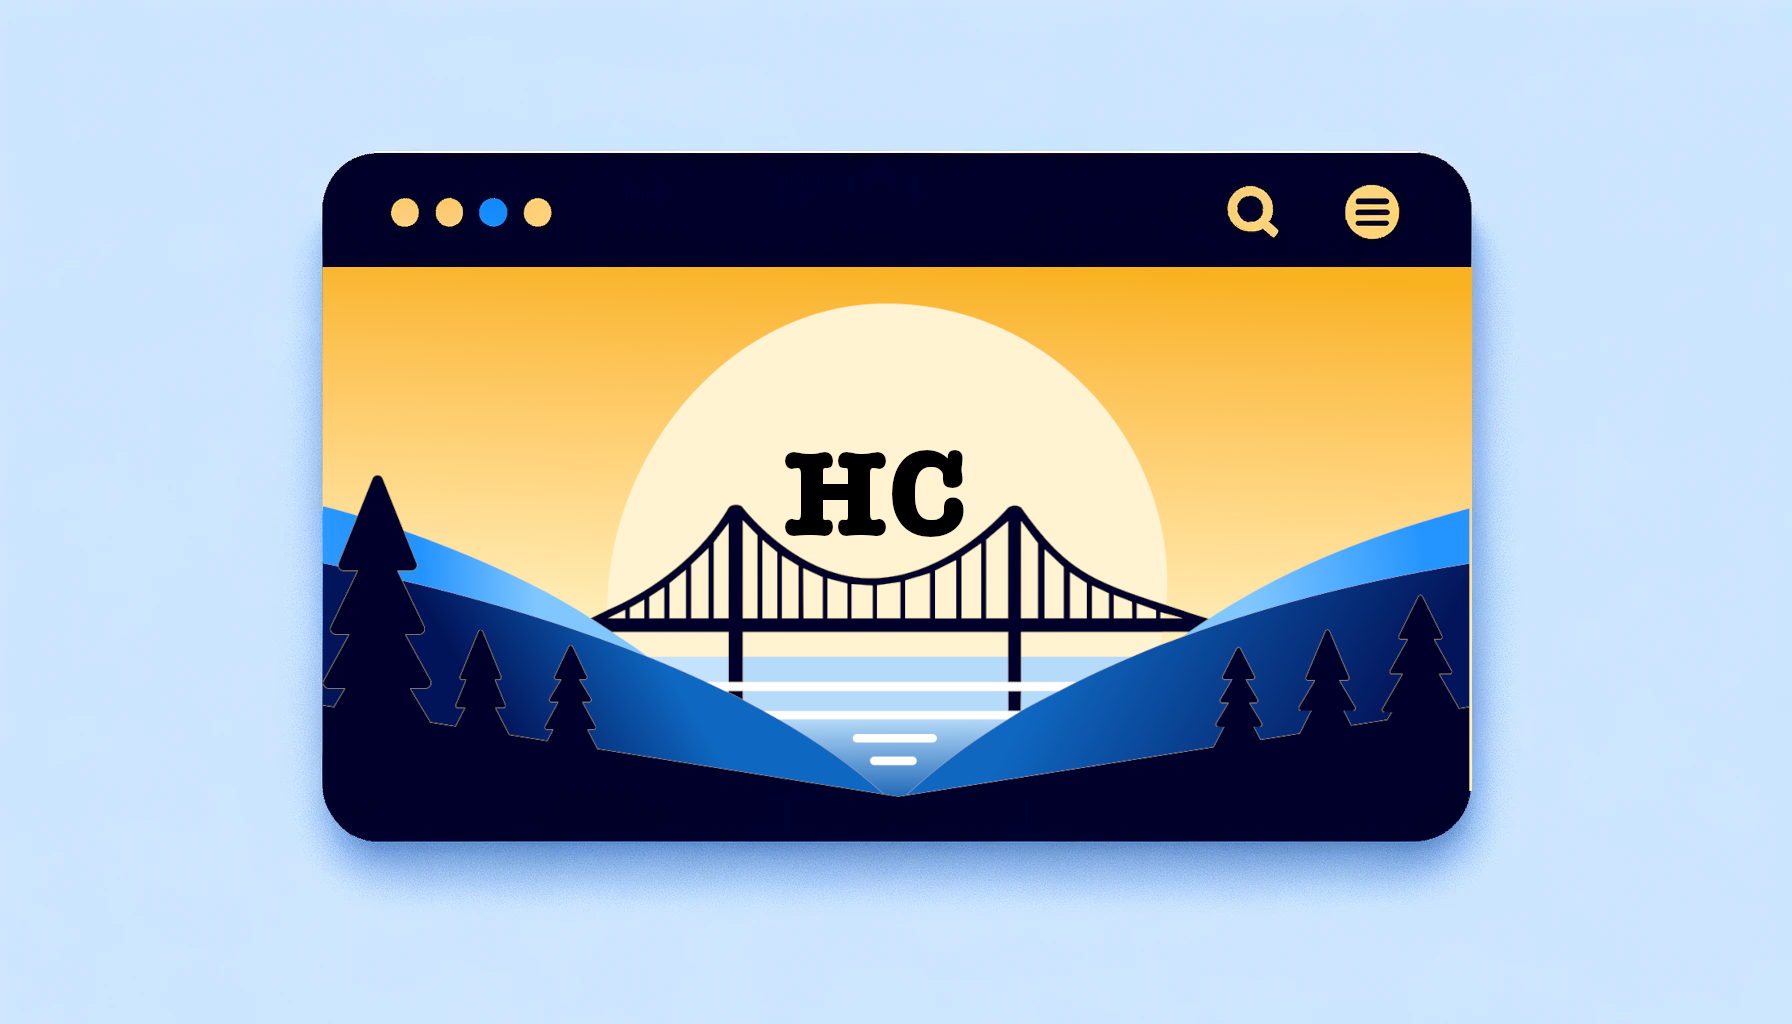
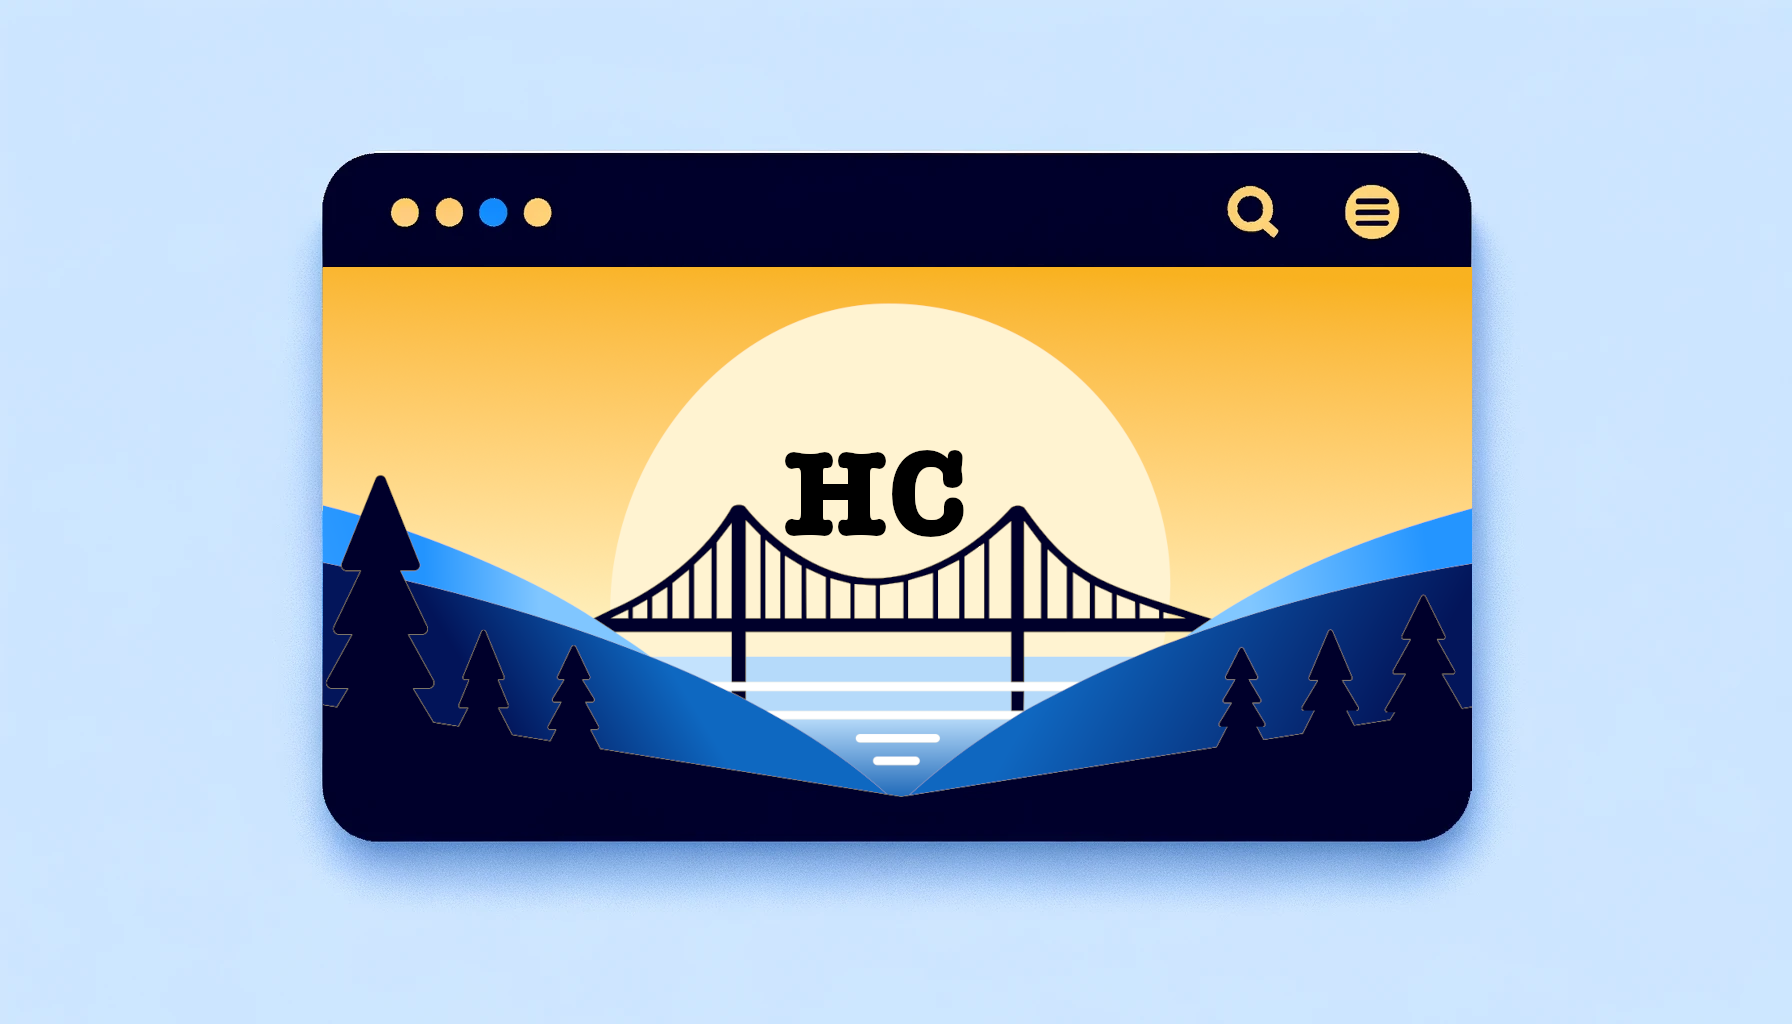
feat: add content to the first blog post

diff --git a/_posts/blog-read-me.md b/_posts/blog-read-me.md
@@ -2,9 +2,71 @@
 title: "Read Me: A Hasty Blog"
 excerpt: "Putting text on the page: api, design, and delivery. Here's a few considerations I took when developing this blog."
 blogImage: "/images/thumbnail.png"
-date: "2023-11-26T08:00:00.000Z"
+date: "2024-08-22T08:00:00.000Z"
 ogImage:
   url: "/images/thumbnail.png"
 ---
 
-### API ROUTES
+#  Table of Contents
+- [Table of Contents](#table-of-contents)
+- [Installation](#installation)
+- [High-Level Description](#high-level-description)
+- [Backend Routes](#backend-routes)
+- [Frontend Routes](#frontend-routes)
+- [Blog](#blog)
+- [Design](#design)
+
+#  Installation
+- Install npm packages with `npm install`
+- Run the website with `npm run dev` or `npm start`
+
+**Production Link:** https://www.hastycreations.com/
+
+#  High-Level Description
+>  _Hasty Creations_ is a full-stack application built using Typescript Next.js. Each of the frontend routes are passed through a page building model that renders functional hook-based React components. The styling is done with a combination of TailwindCSS and Bootstrap components.
+
+#  Backend Routes
+| Method | Route                  | Description                                                    |
+| ------ | ---------------------- | -------------------------------------------------------------- |
+| `POST` | `/api/email`           | Takes an email as a parameter and sends it to my email address |
+| `GET`  | `/api/github/projects` | Returns a list of the projects that I have on Github           |
+| `GET`  | `/api/github/user`     | Returns my Github user information                             |
+
+#  Frontend Routes
+| Route               | Description                                                            |
+| ------------------- | ---------------------------------------------------------------------- |
+| `/`                 | Homepage                                                               |
+| `/about/experience` | Timeline view of my career with a resume available for download        |
+| `/about/github`     | List of my current Github projects with some information               |
+| `/blog`             | Landing page for the website blog with a list of all the current posts |
+| `/blog/[slug]`      | Specific blog page based on the `slug` parameter                        |
+| `/contact`          | Provides an email form to send a message                               |
+
+#  Blog
+> Each blog page is stored as a markdown document in the website repository. The site works by gathering a collection of the documents inside the _posts directory on the server's side during startup and paginating them for delivery on the blog index page. The `react-markdown`, `remark-gfm`, and `rehype-slug` npm packages work together to parse the markdown and format it into html on the page.
+
+#  Design
+> For the theme, I went to ChatGPT and ran some visual ideas through DALL-E for inspiration. I started with a vague idea of what I was looking for - a colorful and rounded visual of the San Francisco skyline at sunset in some capacity.
+
+![DALLE original ui idea](/images/blog/blog-read-me/website-ui-2-dalle.png)
+
+> This was a nice point to start at, but the background contrasted too heavily with the text that I wanted to display. I ran it again with this in mind.
+
+![DALLE second ui idea](/images/blog/blog-read-me/website-ui-dalle.png)
+
+> At this point, I decided to keep the middle body portion and rounded floating navbar with a background spilling to the sides and below the content. However, the background was still overly complicated and distracted from the page itself. Taking a step back, coming up with a simplified thumbnail first and reverse engineering a design style made sense.
+
+![DALLE thumbnail idea](/images/blog/blog-read-me/thumbnail-dalle.png)
+
+> I really liked the color scheme here, but there's still way too many lines for this to look pleasant at the default thumbnail size.
+
+![DALLE final thumbnail idea](/images/blog/blog-read-me/thumbnail-2-dalle.png)
+
+> This was the ultimate winner. The gradient from a dark navy blue to a brilliant orange provided a simple color palette to follow and the visual of the sun rising over the ~~Golden~~ Navy Blue Gate Bridge was an excellent background to use for the page. I wanted some more control over the final appearance and a vector form of the image that would scale well, so I moved this project over to GIMP for a (somewhat tedious) tracing of the portions that I wanted from the original.
+
+![Traced SVG image](/images/blog/blog-read-me/svg-trace.png)
+
+> Voilà! No more strange AI characters and only 1 sun. The image was only 18kb, and I could scale it up without any loading delay for the website background. With the gamma layer saved, the only other thing I needed was the color gradient, which would show right through the transparency. This was added to the website CSS along with a couple of shooting stars to balance the darker top portion of the page theme's gradient on longer pages.
+
+![Figma Diagram](/images/blog/blog-read-me/figma-design.png)
+> Finally, I transferred this design into a Figma diagram so I could see the final effect and plan the responsive views visually. I also ran a quick DALLE for a favicon, which was far simpler with the feel of the website already figured out. I also took the thumbnail that DALLE generated and replaced the strange AI character with "HC" for Hasty Creations in the font that seemed the most fitting. (This ended up being the "Delius Swash Caps" font, which provides an alternate font family for the page headers and navbar website name.)
